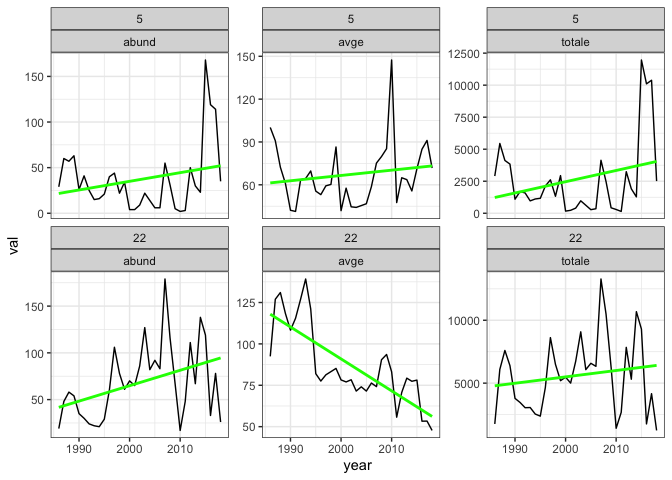
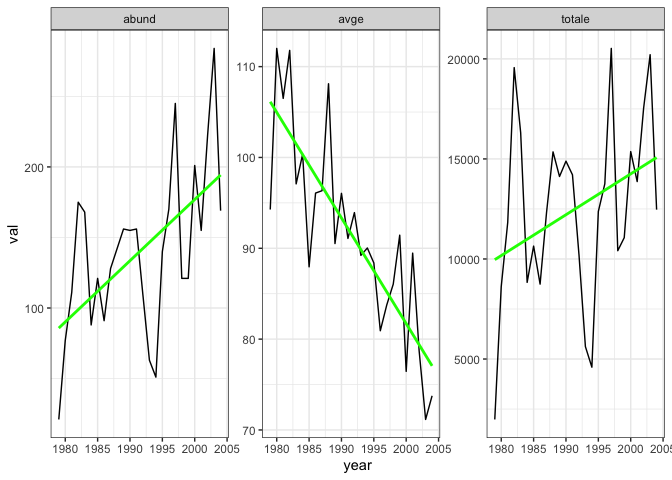
rough size spectra, species composition, eucl dist for spectabs

diff --git a/toy-rats.md b/toy-rats.md
@@ -9,20 +9,20 @@ all_rats <- summarize_individual_rodents(clean = TRUE)
 
 ``` r
 rats <- all_rats %>%
-  filter(plot %in% c(5, 22), !is.na(wgt), period > 100) %>%
+  filter(treatment == "spectabs", !is.na(wgt)) %>%
   mutate(er = 5.69 * (wgt ^ .75)) %>%
-  select(year, plot, species, wgt, er) %>%
-  group_by(year, plot) %>%
+  select(year, species, wgt, er) %>%
+  group_by(year) %>%
   summarize(abund = dplyr::n(),
             totale = sum(er),
             avge = totale/abund) %>%
   ungroup() %>%
-  tidyr::gather(-plot, -year, key = "variable", value = "val")
+  tidyr::gather(-year, key = "variable", value = "val")
 
 ggplot(data = rats, aes(x = year, y = val)) +
   geom_line() +
   theme_bw() +
-  facet_wrap(vars(plot, variable), scales = "free_y") +
+  facet_wrap(vars(variable), scales = "free_y") +
   geom_smooth(method = "lm", se = F, color = "green")
 ```
 
@@ -30,13 +30,13 @@ ggplot(data = rats, aes(x = year, y = val)) +
 
 ``` r
 ar_spectra <- all_rats %>%
-  filter(!is.na(wgt), plot %in% c(5,22), period > 100) %>%
+  filter(!is.na(wgt), treatment == "spectabs") %>%
   mutate(er = 5.69 * (wgt ^ .75)) %>%
-  select(year, plot, er, wgt) %>%
-  group_by(year, plot) %>%
+  select(year, er, wgt) %>%
+  group_by(year) %>%
   mutate(er_wgt = er / sum(er)) %>%
   ungroup()
-ggplot(data = filter(ar_spectra, plot == 5), aes(x = wgt)) +
+ggplot(data = ar_spectra, aes(x = wgt)) +
   geom_density() +
   geom_density(aes(x = wgt, weight =er_wgt), color = "purple") +
   facet_wrap(vars(year)) +
@@ -46,14 +46,67 @@ ggplot(data = filter(ar_spectra, plot == 5), aes(x = wgt)) +
 ![](toy-rats_files/figure-markdown_github/spectra-1.png)
 
 ``` r
-ggplot(data = filter(ar_spectra, plot == 22), aes(x = wgt)) +
-  geom_density() +
-  geom_density(aes(x = wgt, weight =er_wgt), color = "purple") +
-  facet_wrap(vars(year)) +
-  theme_bw()
+ar_species <- all_rats %>%
+  filter(!is.na(wgt), treatment == "spectabs") %>%
+  select(year, wgt, species) %>%
+  mutate(species = as.character(species)) %>%
+  group_by(species) %>%
+  mutate(mean_wgt = mean(wgt)) %>%
+  group_by(year, species, mean_wgt) %>%
+  summarize(abund = dplyr::n()) %>%
+  ungroup() %>%
+  group_by(year) %>%
+  mutate(prop_abund = abund / sum(abund)) %>%
+  ungroup()
+
+spp_levels <- ar_species %>%
+  select(species, mean_wgt) %>%
+  distinct() %>%
+  arrange(mean_wgt)
+
+ar_species <- ar_species %>%
+  mutate(species = factor(species, levels = spp_levels$species))
+
+ggplot(data = ar_species, aes(x = species, y = prop_abund)) +
+  geom_col() +
+  theme_bw() +
+  facet_wrap(vars(year), nrow = 7)
 ```
 
-![](toy-rats_files/figure-markdown_github/spectra-2.png)
+![](toy-rats_files/figure-markdown_github/species-1.png)
+
+``` r
+ar_mat <- ar_species %>%
+  select(year, species, abund) %>%
+  tidyr::pivot_wider(names_from = species, values_from = abund, values_fill = list(abund = 0))
+
+ar_years <- ar_mat$year
+
+ar_mat <- select(ar_mat, -year)
+
+dist_mat <- dist(ar_mat)
+
+dist_from_start <- data.frame(
+  year = ar_years,
+  val = c(0, dist_mat[1:25]),
+  variable = as.character("dist_from_start")
+)
+
+rats <- bind_rows(rats, dist_from_start)
+```
+
+    ## Warning in bind_rows_(x, .id): binding character and factor vector, coercing
+    ## into character vector
+
+``` r
+ggplot(data = rats, aes(x = year, y = val)) +
+  geom_line() +
+  theme_bw() +
+  facet_wrap(vars(variable), scales = "free_y") +
+  geom_smooth(method = "lm", se = F, color = "green")
+```
+
+![](toy-rats_files/figure-markdown_github/turnover-1.png)
 
 ``` r
 rats2 <- all_rats %>%
